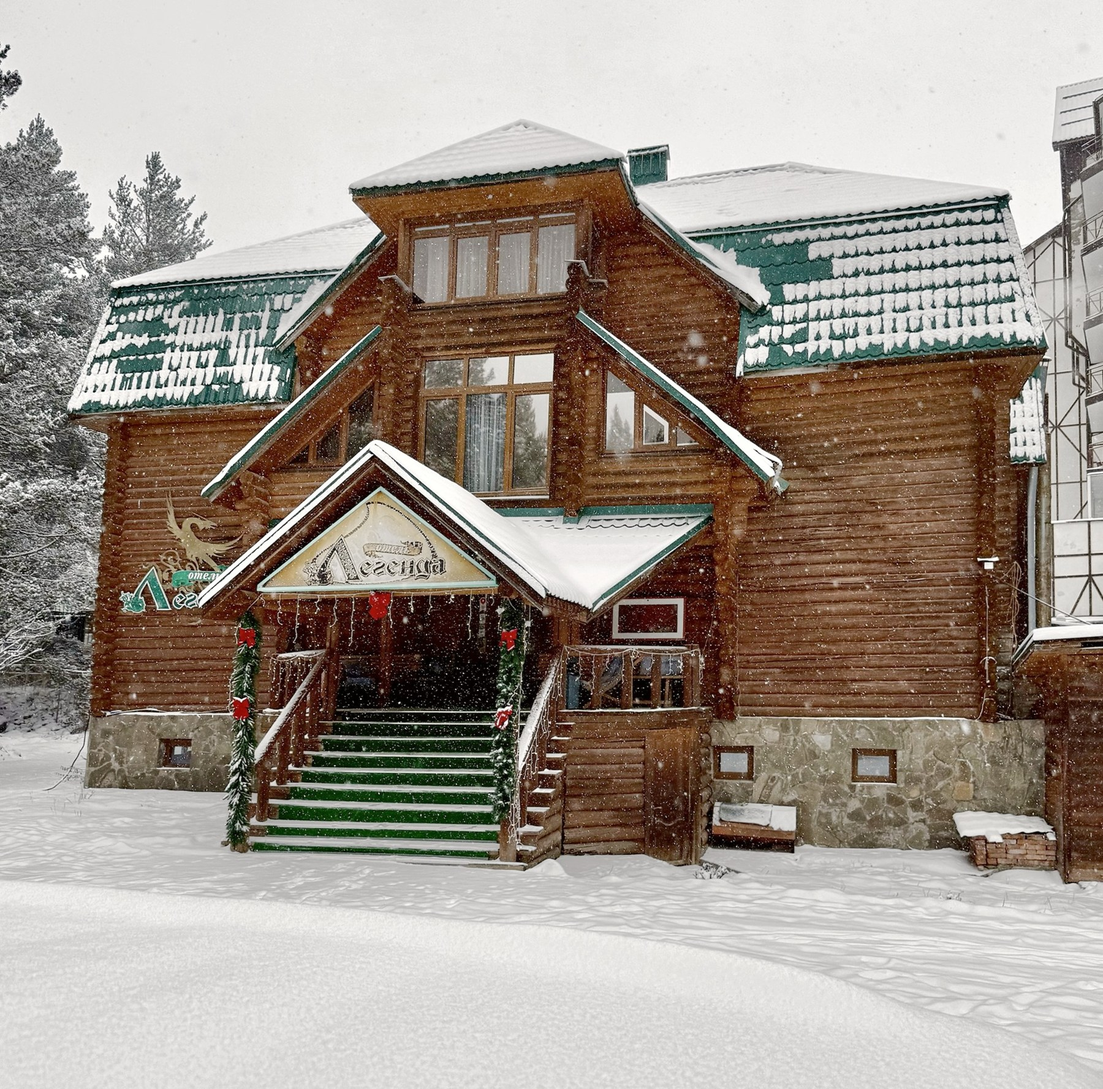
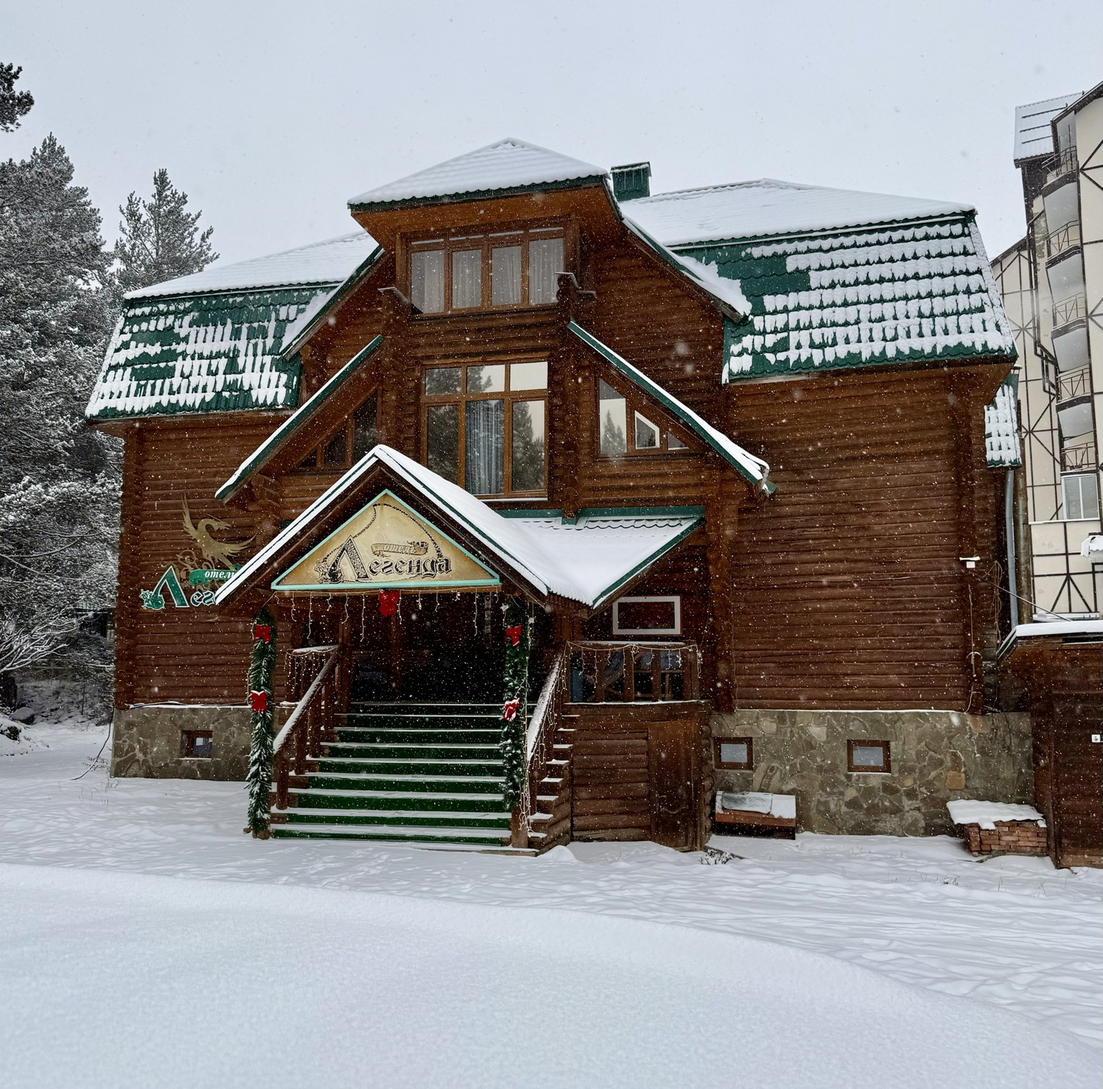
Альбом «Об отеле» — фото без обработки; шапка: подсветка логотипа в капсуле ниже и мягче, с отступом от краёв

diff --git a/src/index.html b/src/index.html
@@ -89,6 +89,9 @@ section[id]{scroll-margin-top:84px}
 .hdr .wrap{position:relative;display:flex;align-items:center;justify-content:space-between;gap:16px;height:72px}
 .logo{display:flex;align-items:center;gap:12px;font-family:var(--display);font-weight:700;font-size:22px;letter-spacing:.06em;color:inherit;background:transparent;border:0;padding:8px 12px 8px 8px;margin-left:-8px;border-radius:14px;cursor:pointer;min-height:48px;transition:background .2s}
 .logo:hover,.logo[aria-expanded="true"]{background:rgba(255,255,255,.2)}
+/* в свёрнутой шапке-капсуле подсветка логотипа ниже и мягче — с отступом от краёв капсулы (08.11.2026) */
+.hdr.solid .logo{min-height:0;padding-top:3px;padding-bottom:3px;border-radius:12px}
+.hdr.solid:not(.light) .logo:hover,.hdr.solid:not(.light) .logo[aria-expanded="true"]{background:rgba(255,255,255,.12);box-shadow:inset 0 0 0 1px rgba(255,255,255,.1)}
 .logo .mk{width:66px;height:26px;flex:0 0 auto;transition:transform .3s}
 .logo:hover .mk{transform:translateY(-1px)}
 .logo .chev{width:14px;height:14px;opacity:.75;transition:transform .25s}

diff --git a/CLAUDE.md b/CLAUDE.md
@@ -14,7 +14,7 @@
 
 - `src/index.html` — **страница целиком** (шапка документа, стили, разметка, скрипт, разметка для поисковиков, Метрика). Все правки только здесь.
 - `src/facade.jpg` — обложка (солнечная, сгенерирована по реальному фото; вывески перенесены с оригинала); `src/facade-real.jpg` — настоящее фото, запасной вариант; `src/facade-depth.jpg` — карта глубины обложки (Depth Anything V2); `src/depth.jpg` — она же с впечённой границей неба, её берёт сайт (`img/depth.jpg`).
-- `src/rooms/<номер>-<N>.jpg` — фото номеров (до 1800 px); список — `PHOTOS` в скрипте. Там же `hotel-<N>.jpg` — альбом «Об отеле» (08.11.2026, фото владельца): `PHOTOS.hotel` и подписи `HOTEL_CAP` по порядку; на странице крупное фото и четыре поменьше («+N фото»), все — в общем просмотре с подписью вверху. Обработка — стиль warm (`tools/retouch.py`), ночной кадр и барнхаус вечером — без обработки (после неё серые); у зеркала в холле обрезан низ с проводами. Исходники — `photos-orig/hotel/` (не в git). `src/static/` — значки, картинка для соцсетей и шрифты (`fonts/`: Lora, Golos Text, Geologica — кириллица, латиница, расширенная латиница для ₽; лицензия OFL), копируются как есть. Шрифты подключены в `<head>` (`@font-face`), к Google страница не обращается (Inter с Google тянет только модуль HomeReserve). `src/privacy.txt` — текст политики обработки персональных данных.
+- `src/rooms/<номер>-<N>.jpg` — фото номеров (до 1800 px); список — `PHOTOS` в скрипте. Там же `hotel-<N>.jpg` — альбом «Об отеле» (08.11.2026, фото владельца): `PHOTOS.hotel` и подписи `HOTEL_CAP` по порядку; на странице крупное фото и четыре поменьше («+N фото»), все — в общем просмотре с подписью вверху. **Без обработки** (владелец: обработка «очень плохо», 08.11.2026) — только уменьшены до 1800 px; у зеркала в холле обрезан низ с проводами. Исходники — `photos-orig/hotel/` (не в git). `src/static/` — значки, картинка для соцсетей и шрифты (`fonts/`: Lora, Golos Text, Geologica — кириллица, латиница, расширенная латиница для ₽; лицензия OFL), копируются как есть. Шрифты подключены в `<head>` (`@font-face`), к Google страница не обращается (Inter с Google тянет только модуль HomeReserve). `src/privacy.txt` — текст политики обработки персональных данных.
 - Типографика (ноябрь 2026): заголовки разделов одной величины (`.sec-h h2`, `.road-i h2`, `.panel>h2`), подпись над ними `.kick` — капслоком; пояснение раздела — под заголовком. Неразрывные пробелы после коротких предлогов и перед тире расставляет `build.py` (функция `nbsp`) — в исходнике их не ставить.
 - `python tools/build.py` — сборка в `site/`: страница (без разделов с заглушками в [скобках], скрипт сжат), обложка и фото номеров в webp (1800/760/160), `privacypolicy/`, `404.html`, `robots.txt`, `sitemap.xml`, `.htaccess`. Папка `site/` в git не хранится.
 - Проверки (поднимают `site/` локальным сервером `tools/serve.js`, нужен Playwright с Chromium: `npm i playwright`, `npx playwright install chromium`):
